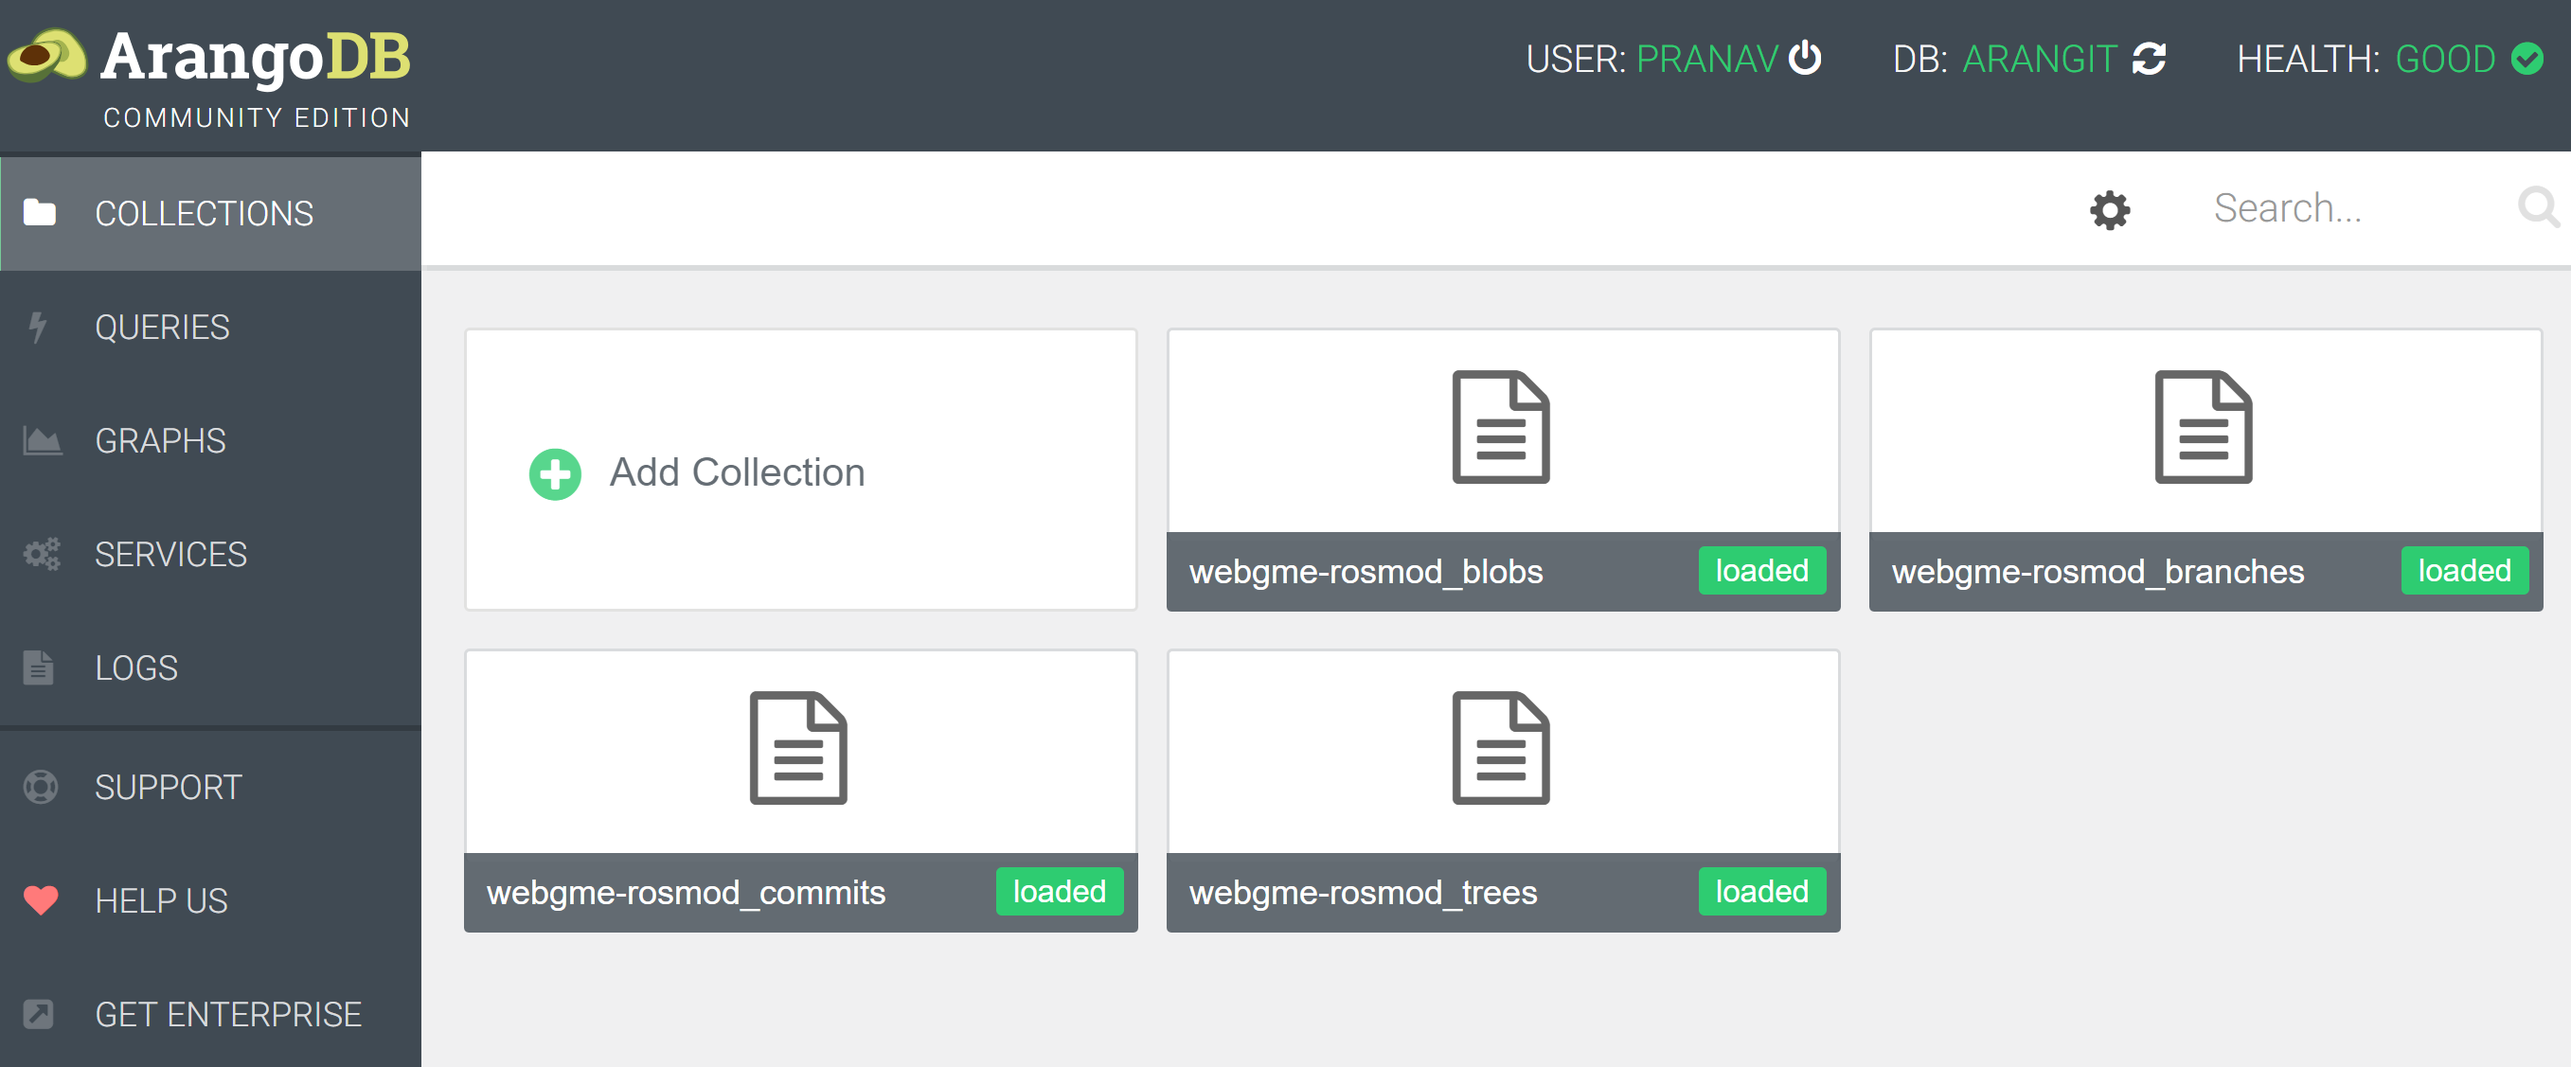
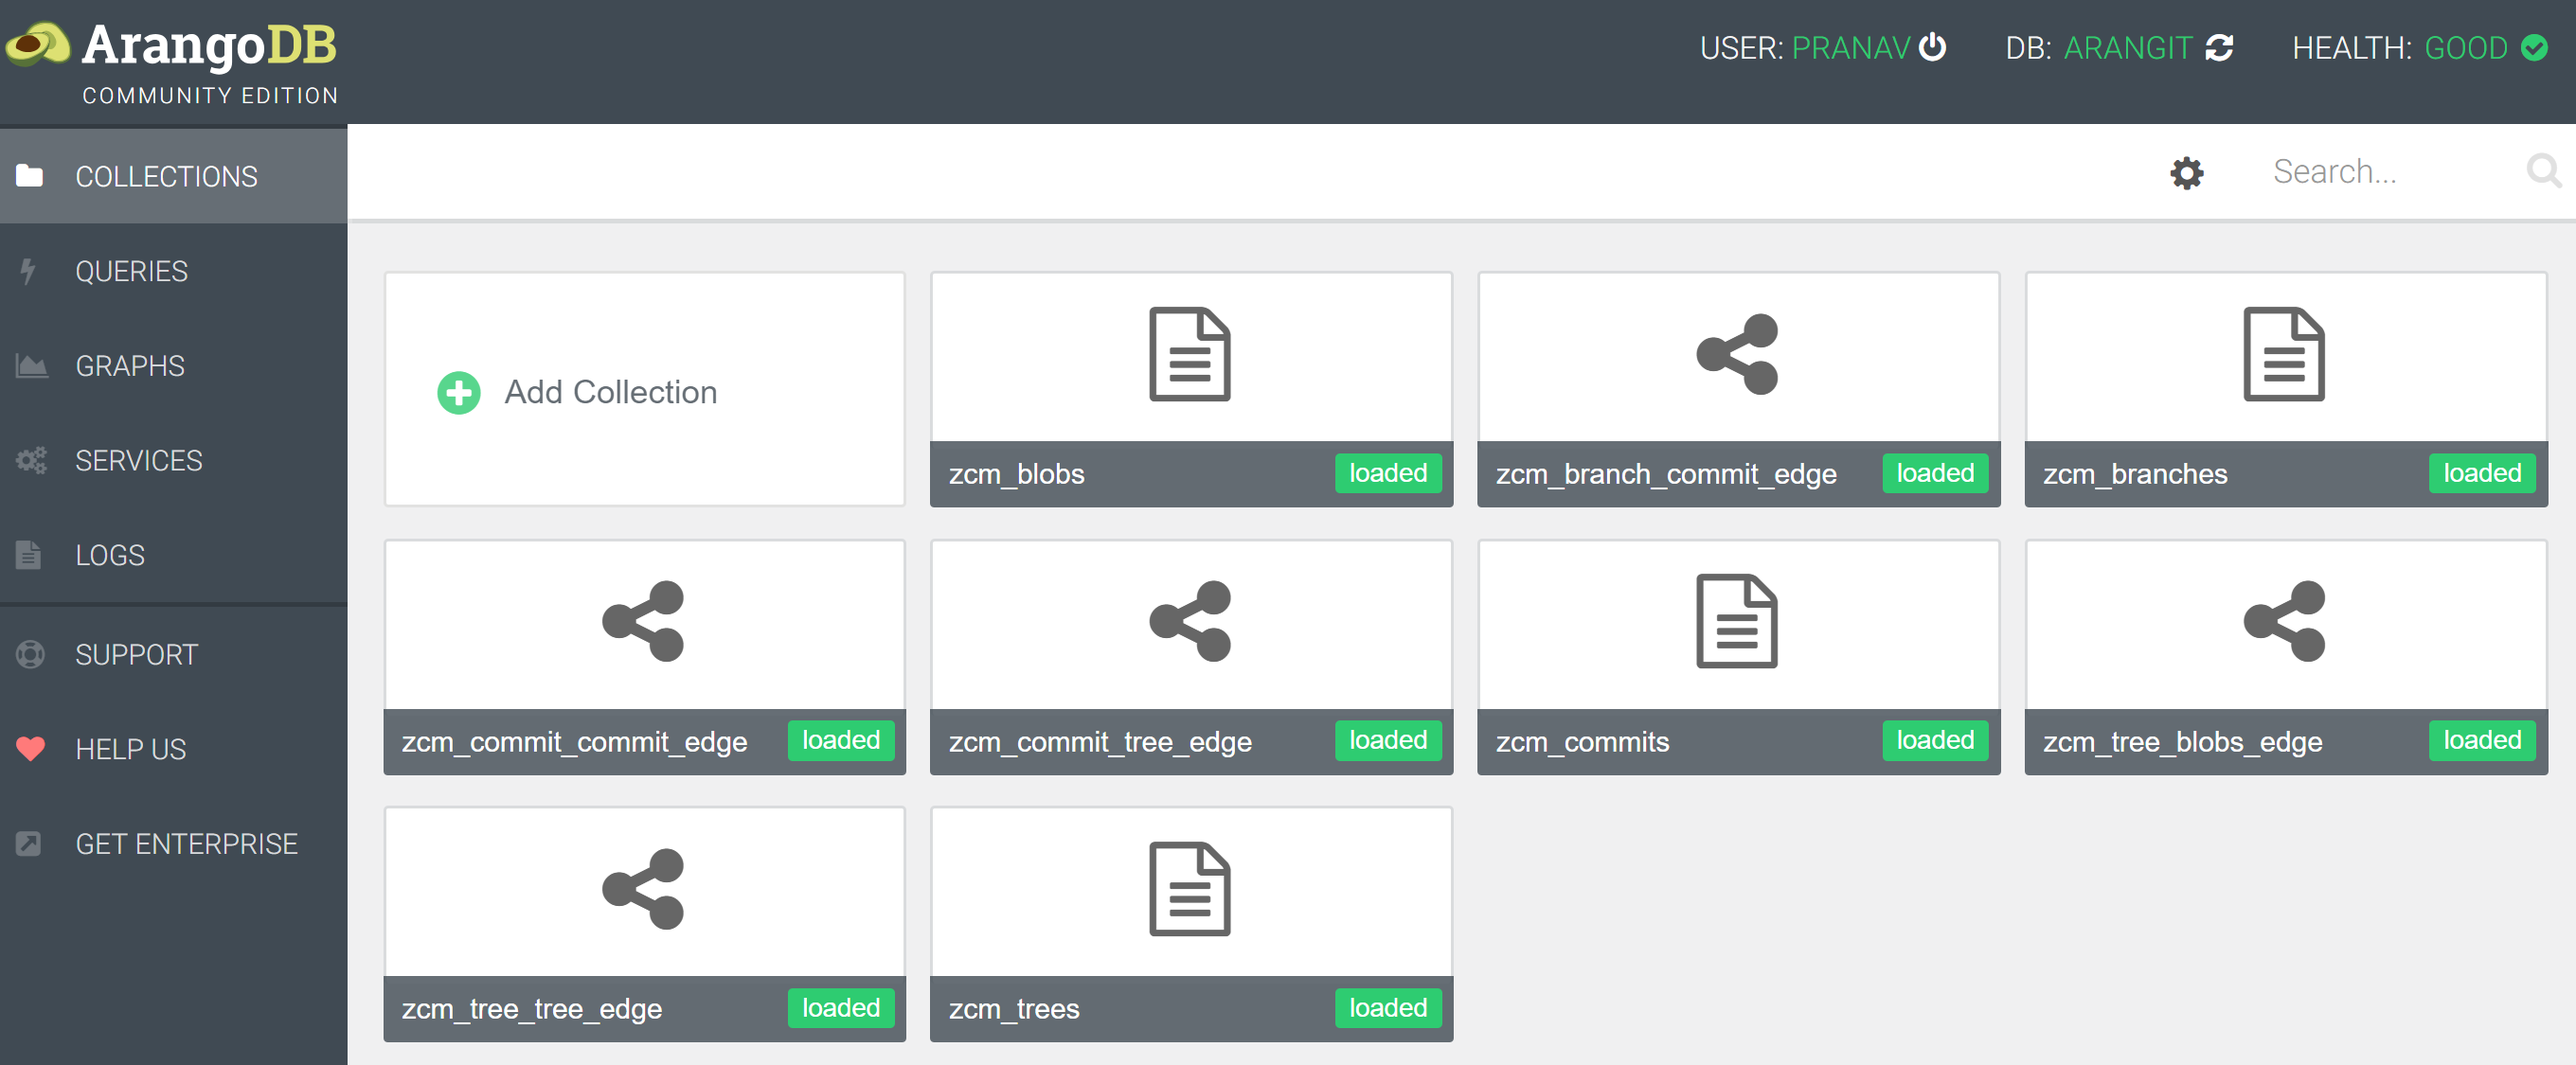
Updated screenshots

diff --git a/README.md b/README.md
@@ -13,26 +13,30 @@ $ python arangit.py --path <git_repository_root>
 ```bash
 $ git clone https://github.com/pranav-srinivas-kumar/arangit
 $ cd arangit/arangit
-$ git clone https://github.com/rosmod/webgme-rosmod
-$ python arangit --path webgme-rosmod
+$ git clone https://github.com/pranav-srinivas-kumar/zcm
+$ python arangit --path zcm
 ```
 
 ### ArangoDB Collections
 
 ![Alt text](images/01.png?raw=true "ArangoDB Collections")
 
-### Subset of Graph
+### Arango Graph
 
 ![Alt text](images/02.png?raw=true "Graph Visualization")
 
+### Branches
+
+![Alt text](images/03.png?raw=true "Branches")
+
 ### Commit Objects
 
-![Alt text](images/03.png?raw=true "Commit Objects")
+![Alt text](images/04.png?raw=true "Commit Objects")
 
 ### Tree Objects
 
-![Alt text](images/04.png?raw=true "Tree Objects")
+![Alt text](images/05.png?raw=true "Tree Objects")
 
 ### Blob Objects
 
-![Alt text](images/05.png?raw=true "Blob Objects")
+![Alt text](images/06.png?raw=true "Blob Objects")
